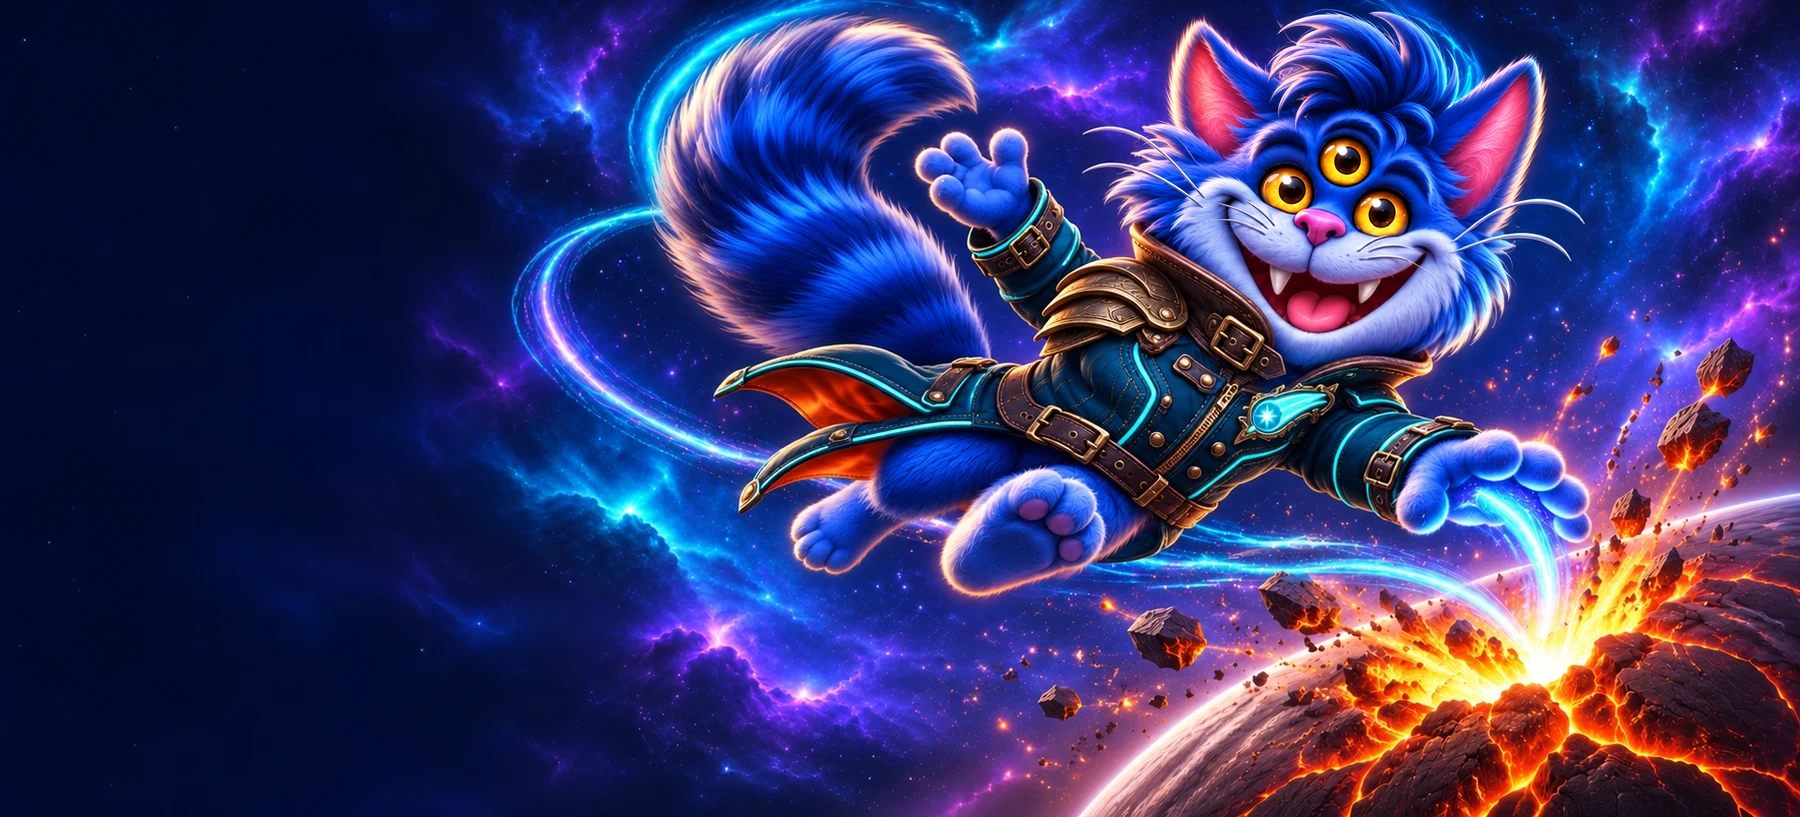
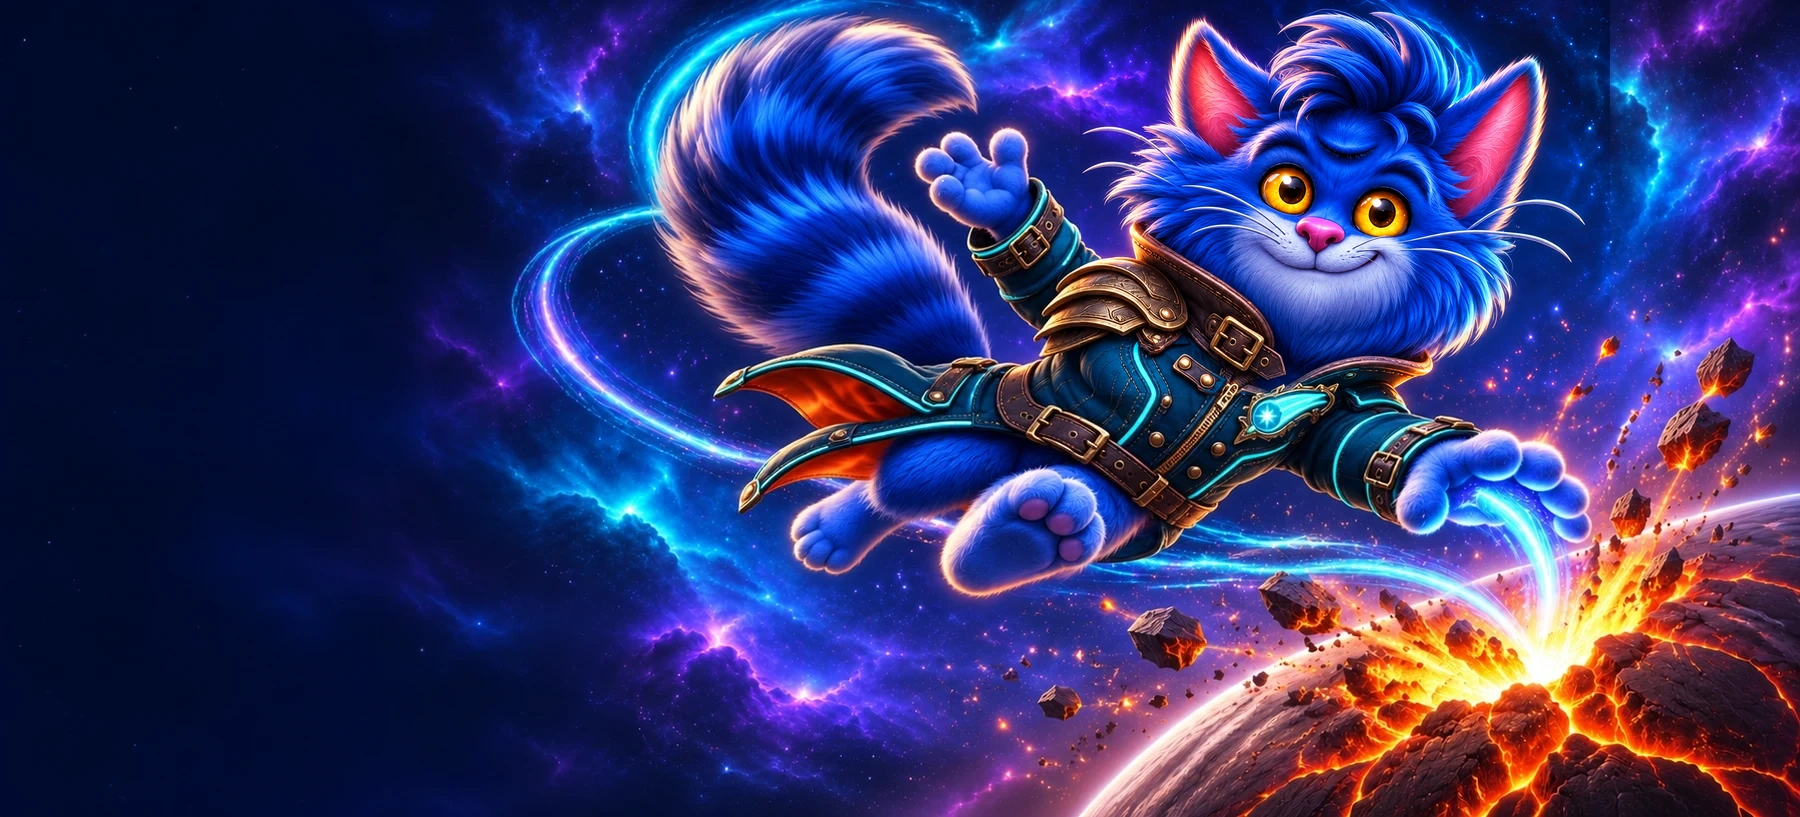
Give Moonpaw a crooked smile and awaken his third eye during spells

Changed region(s): [[0.5911, 0.0306, 0.9022, 0.4896], [0.5911, 0.0612, 0.6222, 0.0918]]

diff --git a/web/public/games/moonpaw/cat.js b/web/public/games/moonpaw/cat.js
@@ -5,6 +5,11 @@
 window.createFamiliar=function(wrapper,image,display){
   const artW=768,artH=502,padX=96,padY=88,viewW=artW+2*padX,viewH=artH+2*padY;
   const zones=new Image();zones.src='assets/jacket-rig.png';
+  // Coordinates in the character artist's 768 × 502 resting pose.
+  const eye=wrapper.querySelector('#castingEye'),eyeX=503,eyeY=87,lidSeam=119;
+  const eyeBottom=eyeY+55;
+  eye.style.left=100*eyeX/artW+'%';eye.style.top=100*eyeY/artH+'%';
+  eye.style.width=100*62/artW+'%';eye.style.height=100*55/artH+'%';
   let draw=null,previous=-1,canvas=display;
   function makeMesh(name,bounds,step){
     const [x0,y0,x1,y1]=bounds,nx=Math.ceil((x1-x0)/step),ny=Math.ceil((y1-y0)/step);
@@ -50,7 +55,7 @@ window.createFamiliar=function(wrapper,image,display){
     }
     const configs=[['tail',1,[0,56,325,397] ],['leg',2,[75,330,401,502]],
       ['body',-1,[0,0,768,502]],['arm',0,[500,92,768,378]]];
-    return configs.map(([name,ch,bounds])=>{
+    const layers=configs.map(([name,ch,bounds])=>{
       const card=document.createElement('canvas');card.width=artW;card.height=artH;
       const paint=card.getContext('2d'),bitmap=paint.createImageData(artW,artH);
       bitmap.data.set(src.data);
@@ -69,6 +74,13 @@ window.createFamiliar=function(wrapper,image,display){
       }
       paint.putImageData(bitmap,0,0);return{name,card,bounds};
     });
+    if(eye.naturalWidth){
+      const card=document.createElement('canvas');card.width=artW;card.height=artH;
+      card.getContext('2d').drawImage(eye,eyeX,eyeY);
+      // The entire forehead is weighted to the head joint. Keep the casting paw in front.
+      layers.splice(3,0,{name:'eye',card,bounds:[eyeX,eyeY,eyeX+eye.naturalWidth,eyeBottom]});
+    }
+    return layers;
   }
   function configureCanvas(quality){
     canvas.width=Math.round(viewW*quality);canvas.height=Math.round(viewH*quality);
@@ -77,17 +89,19 @@ window.createFamiliar=function(wrapper,image,display){
   }
   function gpuRenderer(gl,layers){
     const vs='attribute vec2 position,uv;varying vec2 tex;void main(){tex=uv;gl_Position=vec4((position.x+96.)/960.*2.-1.,1.-(position.y+88.)/678.*2.,0.,1.);}';
-    const fs='precision mediump float;uniform sampler2D art;varying vec2 tex;void main(){gl_FragColor=texture2D(art,tex);}';
+    const fs='precision mediump float;uniform sampler2D art;uniform vec2 visibleY;varying vec2 tex;void main(){if(tex.y<visibleY.x || tex.y>visibleY.y)discard;gl_FragColor=texture2D(art,tex);}';
     function shader(type,code){const s=gl.createShader(type);gl.shaderSource(s,code);gl.compileShader(s);return s}
     const prg=gl.createProgram();gl.attachShader(prg,shader(gl.VERTEX_SHADER,vs));gl.attachShader(prg,shader(gl.FRAGMENT_SHADER,fs));gl.linkProgram(prg);
     if(!gl.getProgramParameter(prg,gl.LINK_STATUS))return null;
     gl.useProgram(prg);configureCanvas(.8);gl.viewport(0,0,canvas.width,canvas.height);
     gl.enable(gl.BLEND);gl.blendFunc(gl.ONE,gl.ONE_MINUS_SRC_ALPHA);gl.pixelStorei(gl.UNPACK_PREMULTIPLY_ALPHA_WEBGL,true);
     const position=gl.getAttribLocation(prg,'position'),uv=gl.getAttribLocation(prg,'uv');
+    const visibleY=gl.getUniformLocation(prg,'visibleY');
     gl.enableVertexAttribArray(position);gl.enableVertexAttribArray(uv);
     function buffer(target,data,usage){const b=gl.createBuffer();gl.bindBuffer(target,b);gl.bufferData(target,data,usage);return b}
     const parts=layers.map(({name,card,bounds})=>{
       const m=makeMesh(name,bounds,name==='body'?24:17);
+      m.isEye=name==='eye';
       m.vPos=buffer(gl.ARRAY_BUFFER,m.xy.byteLength,gl.DYNAMIC_DRAW);m.vUV=buffer(gl.ARRAY_BUFFER,m.uv,gl.STATIC_DRAW);
       m.ix=buffer(gl.ELEMENT_ARRAY_BUFFER,m.indices,gl.STATIC_DRAW);m.texture=gl.createTexture();gl.bindTexture(gl.TEXTURE_2D,m.texture);
       gl.texParameteri(gl.TEXTURE_2D,gl.TEXTURE_MIN_FILTER,gl.LINEAR);gl.texParameteri(gl.TEXTURE_2D,gl.TEXTURE_MAG_FILTER,gl.LINEAR);
@@ -95,9 +109,11 @@ window.createFamiliar=function(wrapper,image,display){
       gl.texImage2D(gl.TEXTURE_2D,0,gl.RGBA,gl.RGBA,gl.UNSIGNED_BYTE,card);
       return m;
     });
-    return bones=>{
+    return (bones,top,bottom)=>{
       gl.clearColor(0,0,0,0);gl.clear(gl.COLOR_BUFFER_BIT);
       for(const m of parts){
+        if(m.isEye&&top>=bottom)continue;
+        gl.uniform2f(visibleY,m.isEye?top/artH:0,m.isEye?bottom/artH:1);
         skin(m,bones);gl.bindBuffer(gl.ARRAY_BUFFER,m.vPos);gl.bufferSubData(gl.ARRAY_BUFFER,0,m.xy);gl.vertexAttribPointer(position,2,gl.FLOAT,false,0,0);
         gl.bindBuffer(gl.ARRAY_BUFFER,m.vUV);gl.vertexAttribPointer(uv,2,gl.FLOAT,false,0,0);
         gl.bindTexture(gl.TEXTURE_2D,m.texture);gl.bindBuffer(gl.ELEMENT_ARRAY_BUFFER,m.ix);
@@ -117,11 +133,12 @@ window.createFamiliar=function(wrapper,image,display){
       const c=small.getContext('2d',{willReadFrequently:true});
       c.drawImage(l.card,0,0,tw,th);
       const data=c.getImageData(0,0,tw,th).data;
-      return{...makeMesh(l.name,l.bounds,l.name==='body'?34:23),data};
+      return{...makeMesh(l.name,l.bounds,l.name==='body'?34:23),data,isEye:l.name==='eye'};
     });
-    return bones=>{
+    return (bones,top,bottom)=>{
       rgba.fill(0);
       for(const mesh of parts){
+        if(mesh.isEye&&top>=bottom)continue;
         skin(mesh,bones);
         const {indices,verts,xy,data}=mesh;
         for(let j=0;j<xy.length;j+=2){xy[j]=(xy[j]+padX)*sx;xy[j+1]=(xy[j+1]+padY)*sy}
@@ -139,6 +156,7 @@ window.createFamiliar=function(wrapper,image,display){
               if(u<-.00001||v<-.00001||u+v>1.00001)continue;
               const px=Math.min(tw-1,Math.max(0,((a.x+(b.x-a.x)*u+(c.x-a.x)*v)*.5)|0));
               const py=Math.min(th-1,Math.max(0,((a.y+(b.y-a.y)*u+(c.y-a.y)*v)*.5)|0));
+              if(mesh.isEye&&(py*2+1<top||py*2+1>bottom))continue;
               const src=(py*tw+px)*4,alpha=data[src+3];if(!alpha)continue;
               const k=(y*fw+x)*4;
               if(alpha===255||!rgba[k+3]){
@@ -156,22 +174,35 @@ window.createFamiliar=function(wrapper,image,display){
       out.putImageData(frame,0,0);
     };
   }
+  function render(){
+    const closed=1-actorPose.eye;
+    const top=eyeY+(lidSeam-eyeY)*closed;
+    const bottom=eyeBottom-(eyeBottom-lidSeam)*closed;
+    if(draw)draw(actorBones(),top,bottom);
+    else{
+      eye.style.clipPath='inset('+(top-eyeY)/(eyeBottom-eyeY)*100+'% 0 '+(eyeBottom-bottom)/(eyeBottom-eyeY)*100+'% 0)';
+      eye.style.opacity=actorPose.eye>0?'1':'0';
+    }
+  }
   function setup(){
-    if(draw||!image.naturalWidth||!zones.naturalWidth)return;
+    if(draw||!image.naturalWidth||!zones.naturalWidth||!eye.complete)return;
     const layers=layerTextures();
     const gl=canvas.getContext('webgl',{alpha:true,depth:false,antialias:true,premultipliedAlpha:true});
     if(gl)draw=gpuRenderer(gl,layers);
     function useCPU(){
       const fallback=document.createElement('canvas');fallback.id='catCanvas';fallback.setAttribute('aria-hidden','true');
-      canvas.replaceWith(fallback);canvas=fallback;draw=cpuRenderer(layers);
+      canvas.replaceWith(fallback);canvas=fallback;draw=fallback.getContext('2d')?cpuRenderer(layers):null;
     }
     if(!draw)useCPU();
-    else canvas.addEventListener('webglcontextlost',e=>{e.preventDefault();useCPU();draw(actorBones())},{once:true});
-    draw(actorBones());wrapper.classList.add('gpu');
+    else canvas.addEventListener('webglcontextlost',e=>{
+      e.preventDefault();useCPU();wrapper.classList.toggle('gpu',!!draw);render();
+    },{once:true});
+    render();wrapper.classList.toggle('gpu',!!draw);
   }
-  image.addEventListener('load',setup);zones.addEventListener('load',setup);setup();
+  image.addEventListener('load',setup);zones.addEventListener('load',setup);
+  eye.addEventListener('load',setup);eye.addEventListener('error',setup);setup();
   return function animate(time){
-    if(!draw||time===previous)return;
-    previous=time;draw(actorBones());
+    if(time===previous)return;
+    previous=time;render();
   };
 };

diff --git a/web/public/games/moonpaw/index.html b/web/public/games/moonpaw/index.html
@@ -7,7 +7,7 @@
 <link rel="icon" type="image/svg+xml" href="assets/paw.svg">
 <link rel="preload" href="assets/moonpaw.woff" as="font" type="font/woff" crossorigin>
 <link rel="preload" href="assets/astral-jacket-keyart.webp" as="image" fetchpriority="high"><link rel="preload" href="assets/astral-jacket.webp" as="image"><link rel="preload" href="assets/jacket-rig.png" as="image">
-<link rel="stylesheet" href="style.css?v=worlds1">
+<link rel="stylesheet" href="style.css?v=casting-eye1">
 </head><body>
 <svg aria-hidden="true" class="sprite-defs" xmlns="http://www.w3.org/2000/svg"><defs>
 <symbol id="i-orbit" viewBox="0 0 24 24"><circle cx="12" cy="12" r="7" fill="currentColor"/><path d="M6 12C-3 22 7 22 16 15S29 0 18 6" fill="none" stroke="currentColor" stroke-width="2"/></symbol>
@@ -44,7 +44,7 @@
 <div class="screen" id="screen" data-mode="title">
 <div class="sky"></div><div class="film"></div>
 <canvas id="field" aria-label="Moonpaw's flight path"></canvas>
-<div id="familiar" class="familiar" role="img" aria-label="Moonpaw, a three-eyed blue cat casting a spell in a teal flight jacket with bronze shoulder armor"><img id="catImage" src="assets/astral-jacket.webp" alt="Moonpaw, a blue three-eyed cat in a teal flight jacket with bronze shoulder armor"><canvas id="catCanvas" aria-hidden="true"></canvas></div>
+<div id="familiar" class="familiar" role="img" aria-label="Moonpaw, a three-eyed blue cat casting a spell in a teal flight jacket with bronze shoulder armor"><img id="catImage" src="assets/astral-jacket.webp" alt="Moonpaw, a blue three-eyed cat in a teal flight jacket with bronze shoulder armor"><img id="castingEye" src="assets/casting-eye.webp" alt="" aria-hidden="true"><canvas id="catCanvas" aria-hidden="true"></canvas></div>
 <div class="intro" id="intro">
 <div class="title-sparks" aria-hidden="true"><i></i><i></i><i></i></div>
 <h1><span class="hero-name">Moonpaw</span><span class="hero-sub">STAR BREAKER</span></h1>
@@ -81,5 +81,5 @@
 
 <p class="sr-only" role="status" id="result"></p>
 </main>
-<script src="actor.js?v=rig1"></script><script src="cat.js?v=mantle1"></script><script src="fracture.js?v=worlds1"></script><script src="globe.js?v=worlds1"></script><script src="rubble.js?v=worlds1"></script><script src="orbit.js?v=worlds1"></script><script src="cinema.js?v=worlds1"></script><script src="powers.js?v=worlds1"></script><script src="game.js?v=worlds1"></script>
+<script src="actor.js?v=casting-eye1"></script><script src="cat.js?v=casting-eye1"></script><script src="fracture.js?v=worlds1"></script><script src="globe.js?v=worlds1"></script><script src="rubble.js?v=worlds1"></script><script src="orbit.js?v=worlds1"></script><script src="cinema.js?v=worlds1"></script><script src="powers.js?v=worlds1"></script><script src="game.js?v=casting-eye1"></script>
 </body></html>

diff --git a/web/public/games/moonpaw/style.css b/web/public/games/moonpaw/style.css
@@ -23,6 +23,8 @@ button{font:inherit;cursor:pointer}button:focus-visible{outline:3px solid #9efbe
 .screen[data-mode=play] .film,.screen[data-mode=paused] .film,.screen[data-mode=won] .film,.screen[data-mode=lost] .film{opacity:0}
 #field{z-index:1}.familiar{position:absolute;left:73%;top:48%;width:auto;height:80%;aspect-ratio:640 / 560;transform:translate(-50%,-50%);pointer-events:none;z-index:2;filter:drop-shadow(0 7px 2px #0e14324f);will-change:transform}
 .familiar img,.familiar canvas{display:block;width:100%;height:100%;position:absolute;inset:0;object-fit:contain;image-rendering:pixelated}.familiar canvas{display:none}.familiar.gpu canvas{display:block}.familiar.gpu img{visibility:hidden}
+/* The plain-image fallback uses the same small registered patch as the animated mesh. */
+.familiar #castingEye{inset:auto;width:auto;height:auto;opacity:0}
 .intro{position:absolute;z-index:3;left:7%;top:49%;transform:translateY(-50%);width:52%;pointer-events:none}.intro button{pointer-events:auto}
 .title-sparks{height:14px;display:flex;align-items:center;gap:7px;margin-bottom:15px;color:#fcd68a}.title-sparks i,.title-sparks:after{display:block;background:currentColor}.title-sparks i{width:6px;height:6px;clip-path:polygon(33% 0,67% 0,67% 33%,100% 33%,100% 67%,67% 67%,67% 100%,33% 100%,33% 67%,0 67%,0 33%,33% 33%)}.title-sparks i:nth-child(2){width:13px;height:13px}.title-sparks:after{content:"";width:48px;height:2px;margin-left:2px;background:linear-gradient(90deg,#e5b97799,transparent)}
 h1,h2,p{margin:0}h1{margin-left:-.025em;line-height:.86}.hero-name,.hero-sub{display:block;font-family:var(--pixel);font-weight:normal;white-space:nowrap;width:max-content}

diff --git a/web/public/games/moonpaw/actor.js b/web/public/games/moonpaw/actor.js
@@ -2,13 +2,13 @@
 
 // Angles are in degrees. Each local joint is applied within its parent's motion.
 const idlePose={dx:0,dy:0,roll:0,stretch:1,shoulder:4,elbow:-13,wrist:4,head:0,
-  freeArm:0,thigh:0,shin:0,otherLeg:0,tail:0,tailTip:0,cape:0};
+  eye:0,freeArm:0,thigh:0,shin:0,otherLeg:0,tail:0,tailTip:0,cape:0};
 const coilPose={dx:-38,dy:15,roll:9,stretch:.93,shoulder:38,elbow:-95,wrist:16,
-  head:-10,freeArm:28,thigh:22,shin:-34,otherLeg:-10,tail:14,tailTip:-19,cape:-12};
+  head:-10,eye:.75,freeArm:28,thigh:22,shin:-34,otherLeg:-10,tail:14,tailTip:-19,cape:-12};
 const thrustPose={dx:43,dy:-8,roll:-8,stretch:1.055,shoulder:-7,elbow:10,wrist:-6,
-  head:6,freeArm:-18,thigh:-18,shin:25,otherLeg:15,tail:-18,tailTip:25,cape:17};
+  head:6,eye:1,freeArm:-18,thigh:-18,shin:25,otherLeg:15,tail:-18,tailTip:25,cape:17};
 const followPose={dx:8,dy:8,roll:4,stretch:.985,shoulder:12,elbow:13,wrist:4,
-  head:-4,freeArm:-6,thigh:-5,shin:14,otherLeg:8,tail:-7,tailTip:21,cape:8};
+  head:-4,eye:1,freeArm:-6,thigh:-5,shin:14,otherLeg:8,tail:-7,tailTip:21,cape:8};
 const gestures={
   nova:{wind:{},strike:{}},
   solar:{wind:{shoulder:-27,elbow:-86,roll:-12},strike:{shoulder:24,elbow:8,wrist:14,roll:8}},
@@ -44,6 +44,7 @@ function advanceActor(dt,charge,motion,reduced){
   if(!a){
     const target=charge>0?mixPose(idlePose,coilPose,Math.min(.88,charge*.92)):idlePose;
     actorPose=mixPose(actorPose,target,Math.min(1,Math.sqrt(dt*8)));
+    actorPose.eye=0;
     return;
   }
   a.age+=dt;

diff --git a/web/public/games/moonpaw/game.js b/web/public/games/moonpaw/game.js
@@ -277,7 +277,9 @@ function addScore(n,x,y){score+=n;$('score').textContent=six(score);if(x!==undef
 function smash(e){if(e.dead)return;e.dead=true;spark(e.x,e.y,e.kind==='lantern'?'#ffd878':'#ce9fff',14,95);ring(e.x,e.y,'#d7a7ff',e.r*1.8);addScore(e.kind==='wraith'?100:60,e.x,e.y-e.r);tone(230,70,.15,'sawtooth',.026)}
 function collect(e){
   e.dead=true;addScore(100,e.x,e.y-e.r);spark(e.x,e.y,'#e3bbff',11,70);charge++;tune([554+charge*38,830+charge*40]);
-  if(charge>=5){charge=0;burstTime=3.6;invulnerable=Math.max(invulnerable,3.6);ring(player.x,player.y,'#b2fff0',Math.max(W,H)*.9);
+  if(charge>=5){
+    if(!actorPending())beginGesture('super',4,null);
+    charge=0;burstTime=3.6;invulnerable=Math.max(invulnerable,3.6);ring(player.x,player.y,'#b2fff0',Math.max(W,H)*.9);
     for(const other of entities)if(isHazard(other)&&other.kind!=='potion'&&other.x<W+other.r)smash(other);
     showNotice('STARBURST!',1.35);tune([523,659,784,1047])}
   hud();

diff --git a/web/public/sw.js b/web/public/sw.js
@@ -1,5 +1,5 @@
 const LEGACY_CACHE_MARKER = "nicos-world-static-v22";
-const CACHE = "nicos-world-static-v67-moonpaw-natural-ears";
+const CACHE = "nicos-world-static-v68-moonpaw-casting-eye";
 const FISHING_DOCUMENT = "/games/starfall-anglers/";
 const GAME_DOCUMENTS = [FISHING_DOCUMENT, "/games/timberline-hunt/", "/games/luma-lagoon/", "/games/skullwing/", "/games/mascaras-del-volcan/", "/games/moonpaw/"];
 const OFFLINE_ASSET_MANIFEST = "/offline-assets.json";
